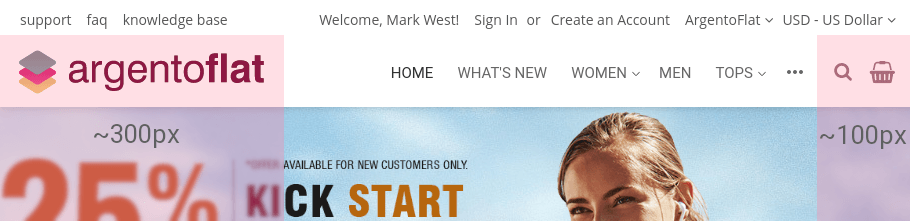
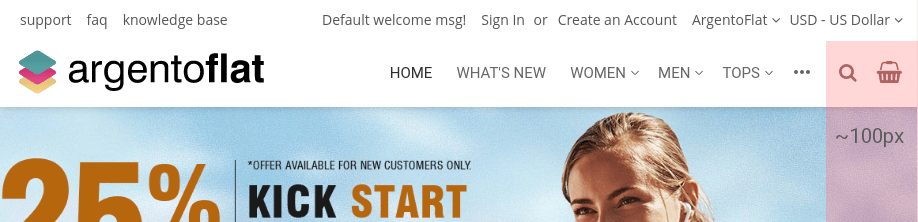
Navigationpro M2: nowrap updated

diff --git a/m2/extensions/navigationpro/use-cases/nowrap.md b/m2/extensions/navigationpro/use-cases/nowrap.md
@@ -42,13 +42,13 @@ Let's imagine the following header:
 
 ![Nowrap](/images/m2/navigationpro/use-cases/nowrap-offset.png)
 
-In the example above, menu is placed near logo (300px width),
-cart and search icons (100px width). To activate nowrap feature for this
+In the example above, menu is placed between logo and
+cart/search icons (100px width). To activate nowrap feature for this
 header type, you need to:
 
  -  Add `navpro-nowrap` class to the
     [CSS Class field](/m2/extensions/navigationpro/backend/menu-settings/#general-settings)
- -  Add `navpro-nowrap-offset-400` class to the
+ -  Add `navpro-nowrap-offset-100` class to the
     [CSS Class field](/m2/extensions/navigationpro/backend/menu-settings/#general-settings)
 
 #### Next up
